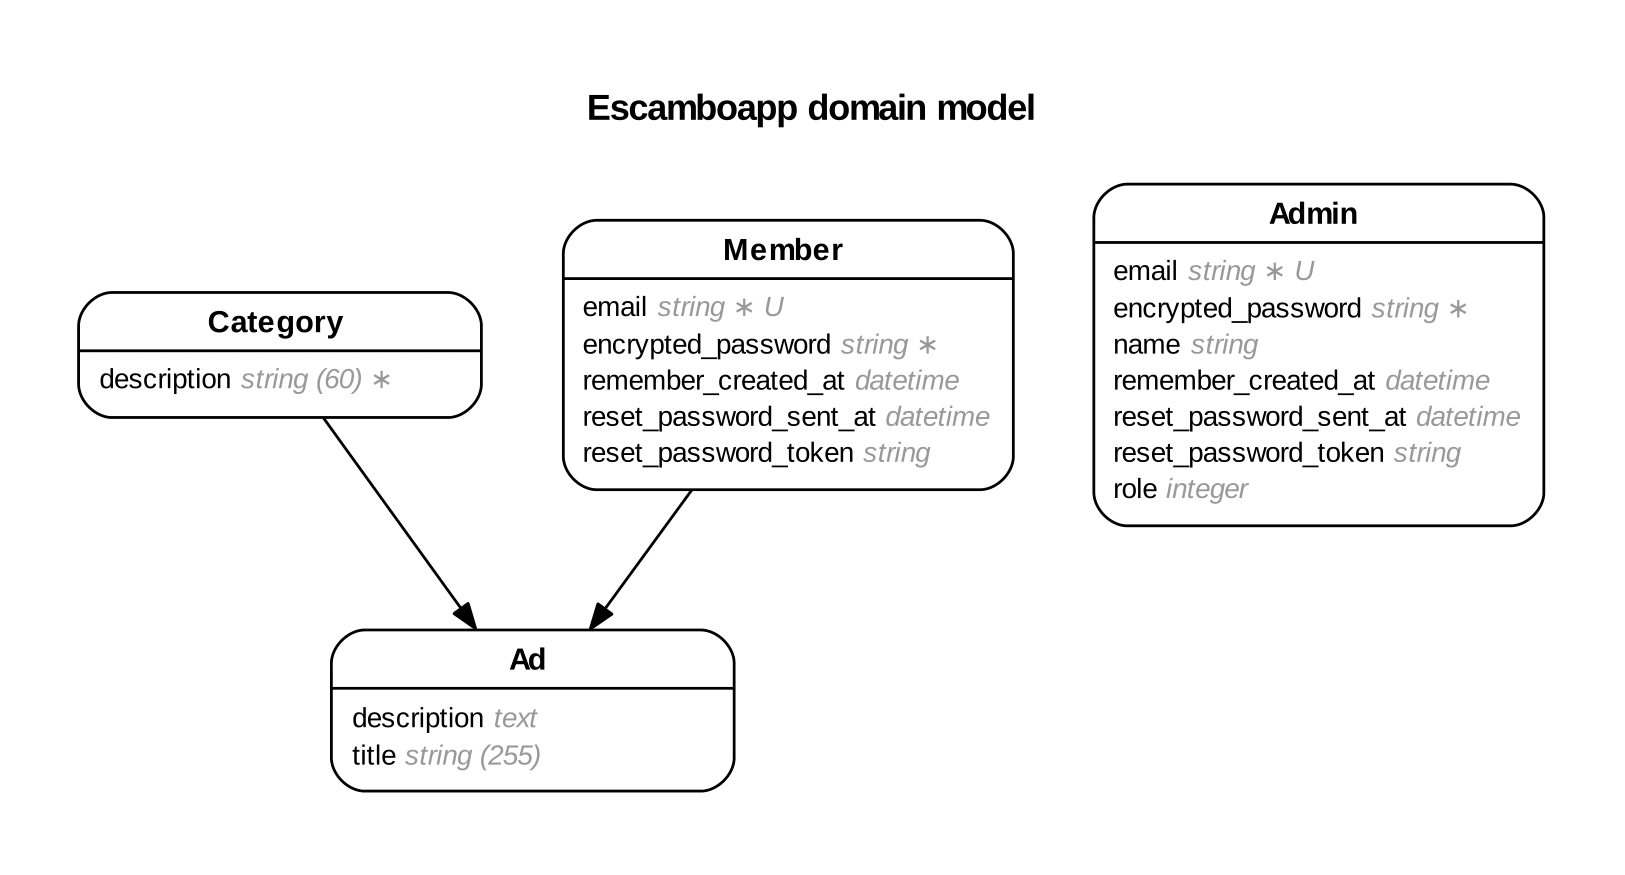
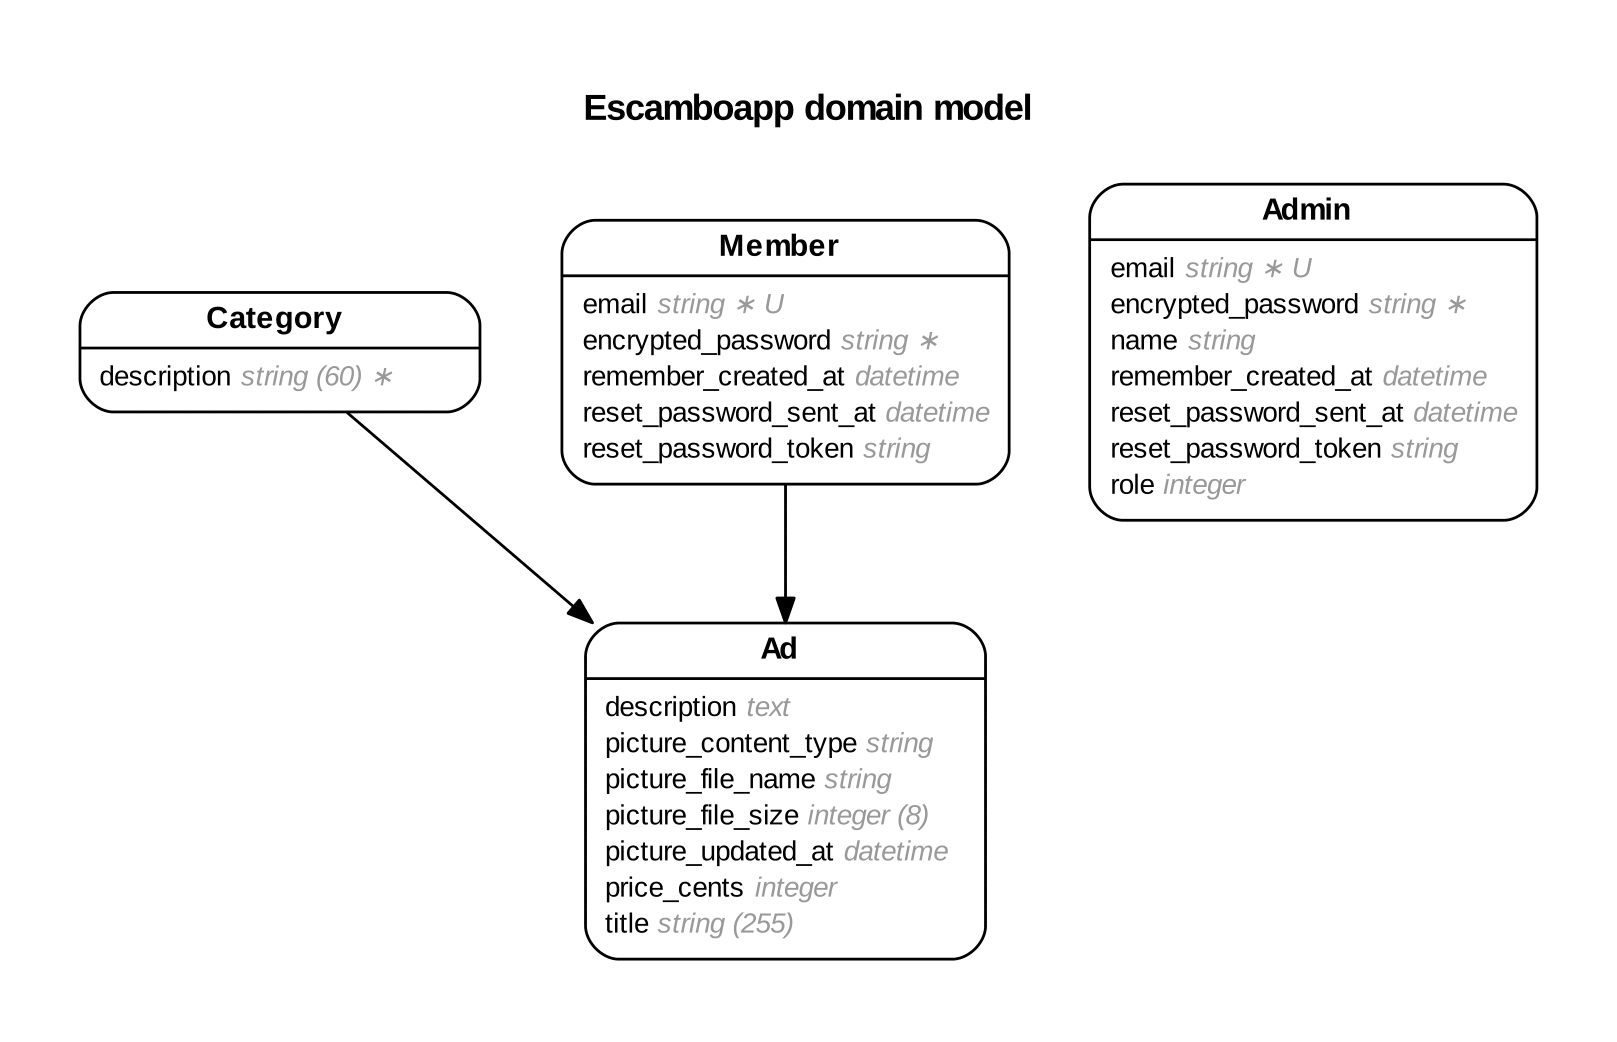
Updated dockerfile and readme with dependencies, updated erd diagram

Changed region(s): [[0.1855, 0.1543, 0.9586, 0.9257], [0.0309, 0.2777, 0.3092, 0.5246], [0.3401, 0.0926, 0.6494, 0.1543]]

diff --git a/README.md b/README.md
@@ -16,11 +16,14 @@
   ```
 ## Dependencies
   * ImageMagick (https://www.imagemagick.org)  
-  For PaperClip gem (images storage and manipulation)  
-  **OBS: this process is already included on dockerfile**
+  For PaperClip gem (images storage and manipulation) 
+  * Graphviz (https://www.graphviz.org)  
+  For Erd gem (generate ERD diagrams)  
+  **OBS: these processes are already included on dockerfile**
   ```
   $ sudo apt-get update
-  $ sudo apt-get install imagemagick
+  $ sudo apt-get install -y imagemagick aptitude
+  $ sudo aptitude install -y graphviz
   ```
 ## Database creation
   ```sh
@@ -31,7 +34,7 @@
   ```sh
   $ rake dev:setup  
   ```  
-  **OBS: if "Couldn't drop db/development.sqlite3" error occur:**  
+  OBS: if **"Couldn't drop db/development.sqlite3"** error occur:  
     Delete development.sqlite3 file on db folder and run the command above again  
 
 ## Entity-Relation Diagram (ERD)
@@ -47,7 +50,8 @@
   $ docker-compose up --build  
   Open app on browser: https://<virtual-machine-ip>:3000
   ```
-  **OBS: If "Migrations are pending, run bin/rake db:migrate RAILS_ENV=development" error occur:**  
+  OBS: If **"Migrations are pending, run bin/rake db:migrate RAILS_ENV=development"** 
+  error occur: 
   
     Open two terminal instances on project folder:
     Run on terminal 1:  (to bootstrap app)  
